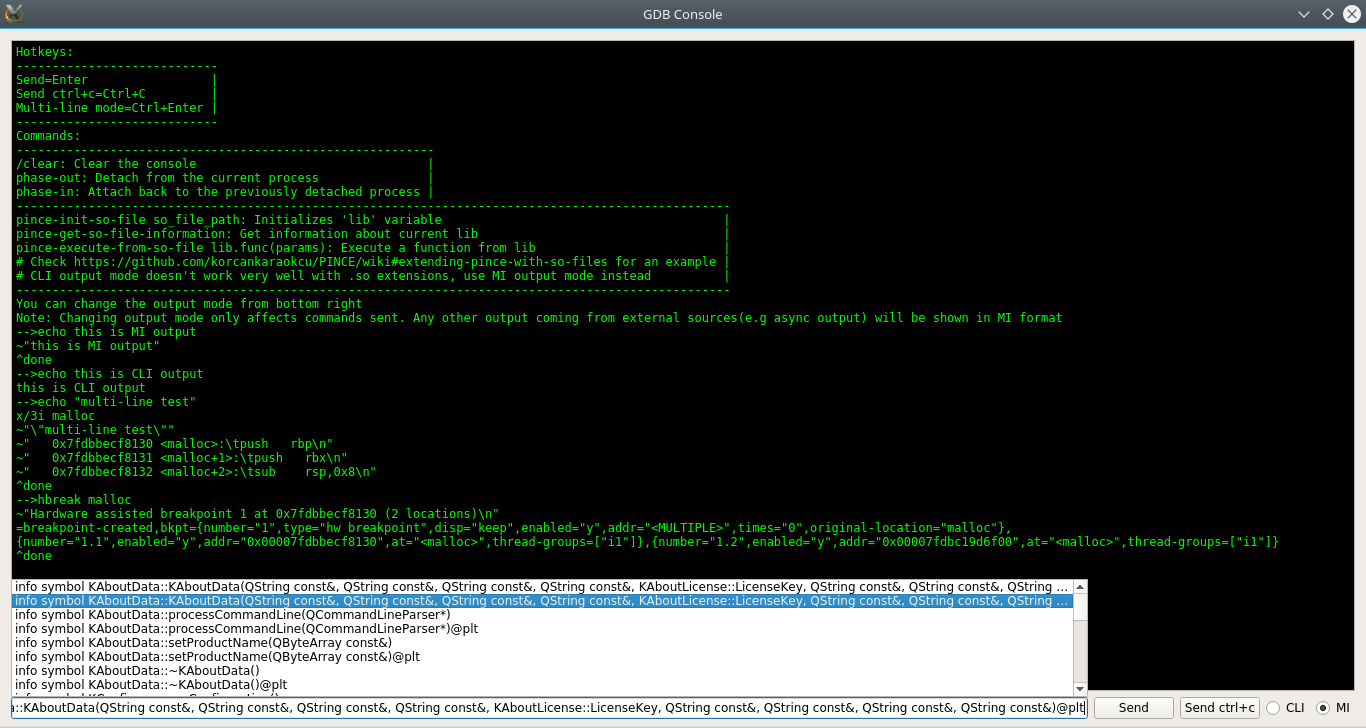
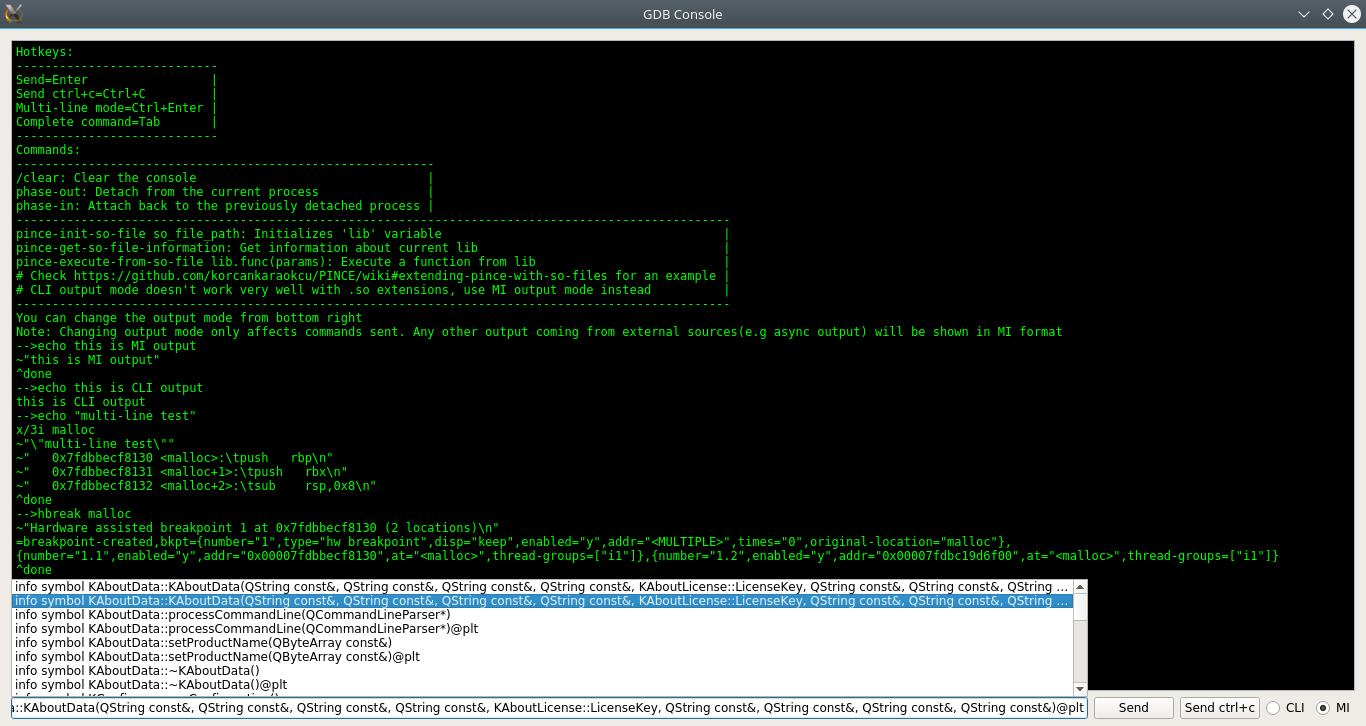
Updated command completion feature

Changed region(s): [[0.0, 0.0909, 0.9839, 1.0]]

diff --git a/PINCE.py b/PINCE.py
@@ -1141,11 +1141,13 @@ class ConsoleWidgetForm(QWidget, ConsoleWidget):
         self.pushButton_SendCtrl.clicked.connect(lambda: self.communicate(control=True))
         self.shortcut_send = QShortcut(QKeySequence("Return"), self)
         self.shortcut_send.activated.connect(self.communicate)
+        self.shortcut_complete_command = QShortcut(QKeySequence("Tab"), self)
+        self.shortcut_complete_command.activated.connect(self.complete_command)
         self.shortcut_send_ctrl = QShortcut(QKeySequence("Ctrl+C"), self)
         self.shortcut_send_ctrl.activated.connect(lambda: self.communicate(control=True))
         self.shortcut_multiline_mode = QShortcut(QKeySequence("Ctrl+Return"), self)
         self.shortcut_multiline_mode.activated.connect(self.enter_multiline_mode)
-        self.lineEdit.textEdited.connect(self.complete_command)
+        self.lineEdit.textEdited.connect(self.finish_completion)
 
         # Saving the original function because super() doesn't work when we override functions like this
         self.lineEdit.keyPressEvent_original = self.lineEdit.keyPressEvent
@@ -1191,6 +1193,7 @@ class ConsoleWidgetForm(QWidget, ConsoleWidget):
         self.textBrowser.append("Send=Enter                 |")
         self.textBrowser.append("Send ctrl+c=Ctrl+C         |")
         self.textBrowser.append("Multi-line mode=Ctrl+Enter |")
+        self.textBrowser.append("Complete command=Tab       |")
         self.textBrowser.append("----------------------------")
         self.textBrowser.append("Commands:")
         self.textBrowser.append("----------------------------------------------------------")
@@ -1246,12 +1249,16 @@ class ConsoleWidgetForm(QWidget, ConsoleWidget):
         else:
             self.lineEdit.keyPressEvent_original(e)
 
+    def finish_completion(self):
+        self.completion_model.setStringList([])
+
     def complete_command(self):
         if GDB_Engine.gdb_initialized and GDB_Engine.currentpid != -1 and self.lineEdit.text() and \
                         GDB_Engine.inferior_status == type_defs.INFERIOR_STATUS.INFERIOR_STOPPED:
             self.completion_model.setStringList(GDB_Engine.complete_command(self.lineEdit.text()))
+            self.completer.complete()
         else:
-            self.completion_model.setStringList([])
+            self.finish_completion()
 
     def closeEvent(self, QCloseEvent):
         global instances
